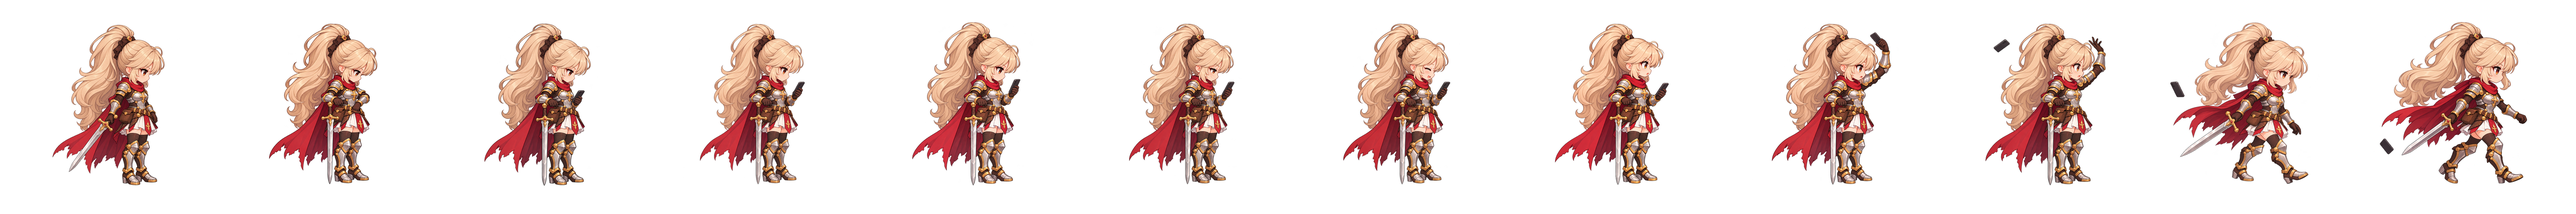
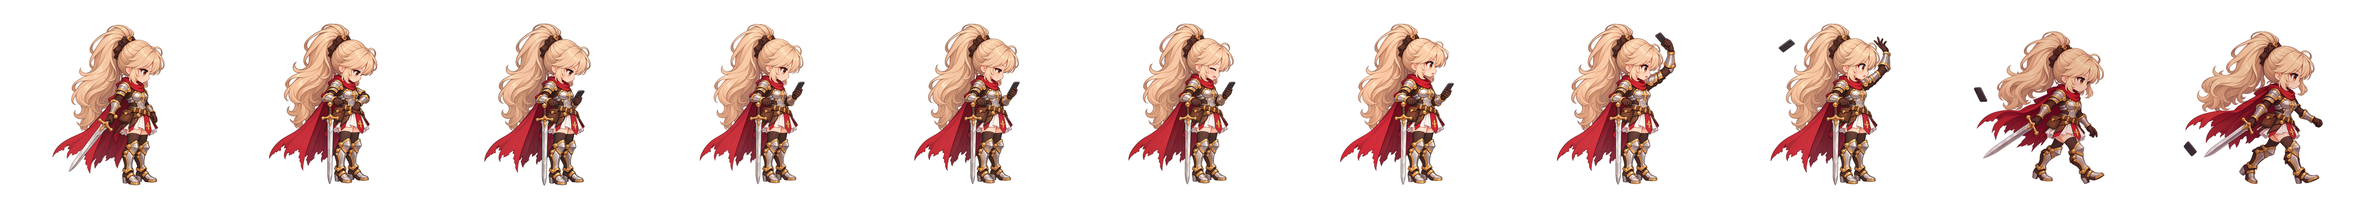
chore: animations

diff --git a/test/content/hero_phone_test.dart b/test/content/hero_phone_test.dart
@@ -29,25 +29,28 @@ void main() {
   final entry = resources.clip(HeroClips.phoneEnter);
   final wake = resources.clip(HeroClips.phoneWake);
 
-  test('phone boundaries reuse actual walk frames and their geometry', () {
-    final walk = resources.clip(const ClipId('hero.walk'));
-    expect(entry.frames.first.frameId, walk.frames.last.frameId);
-    expect(wake.frames.last.frameId, walk.frames.first.frameId);
-    expect(
-      identical(
-        resources.frame(entry.frames.first.frameId),
-        resources.frame(walk.frames.last.frameId),
-      ),
-      isTrue,
-    );
-    expect(
-      identical(
-        resources.frame(wake.frames.last.frameId),
-        resources.frame(walk.frames.first.frameId),
-      ),
-      isTrue,
-    );
-  });
+  test(
+    'phone entry reuses walk geometry and wake leaves walking its first frame',
+    () {
+      final walk = resources.clip(const ClipId('hero.walk'));
+      expect(entry.frames.first.frameId, walk.frames.last.frameId);
+      expect(
+        wake.frames.last.frameId,
+        const FrameId('hero.phoneFrames.frame.10'),
+      );
+      expect(
+        identical(
+          resources.frame(entry.frames.first.frameId),
+          resources.frame(walk.frames.last.frameId),
+        ),
+        isTrue,
+      );
+      expect(
+        wake.frames.map((frame) => frame.frameId),
+        isNot(contains(walk.frames.first.frameId)),
+      );
+    },
+  );
 
   test('root selects a complete subtree once and retains it during idle', () {
     final rolls = _Roll(.75);
@@ -110,17 +113,21 @@ void main() {
     expect(hero.advance(.5), 0);
     expect(rest.graphRunner, isNull);
     expect(hero.snapshot.frameId, const FrameId('hero.walk.frame.6'));
-    expect(hero.advance(.375), 0);
-    expect(hero.snapshot.frameId, const FrameId('hero.walk.frame.9'));
+    expect(hero.advance(.25), 0);
+    expect(hero.snapshot.frameId, const FrameId('hero.walk.frame.8'));
     hero.advance(.01);
     expect(rest.graphRunner!.snapshot.nodeId, HeroPhoneRestGraph.enter);
-    expect(hero.snapshot.frameId, const FrameId('hero.walk.frame.9'));
+    expect(hero.snapshot.frameId, const FrameId('hero.walk.frame.8'));
     hero.advance(entry.duration);
     rest.setIdleSeconds(0);
-    hero.advance(wake.duration);
+    hero.advance(wake.duration - .001);
+    expect(hero.snapshot.frameId, const FrameId('hero.phoneFrames.frame.10'));
+    hero.advance(.001);
     expect(hero.blocksAdventure, isFalse);
     expect(hero.snapshot.frameId, const FrameId('hero.walk.frame.0'));
     expect(hero.restReturnRevision, 1);
+    hero.advance(.125);
+    expect(hero.snapshot.frameId, const FrameId('hero.walk.frame.1'));
   });
 
   test('wake cues take sword while phone remains in its flight frames', () {
@@ -129,7 +136,7 @@ void main() {
     expect(release.time, lessThan(grab.time));
     expect(
       wake.frames[wake.frameIndex(grab.time)].frameId,
-      const FrameId('hero.phoneFrames.frame.10'),
+      const FrameId('hero.phoneFrames.frame.9'),
     );
   });
 

diff --git a/lib/content/animations/hero/clips/phone.dart b/lib/content/animations/hero/clips/phone.dart
@@ -6,7 +6,7 @@ void _addHeroPhone(_HeroClipBuilder builder) {
     spriteSheetResources(
       id: sheet,
       asset: '${_heroAssetRoot}phone.png',
-      frames: 12,
+      frames: 11,
       frameWidth: 512,
       frameHeight: 512,
       anchorX: .62,
@@ -22,7 +22,7 @@ void _addHeroPhone(_HeroClipBuilder builder) {
   builder.clips[HeroClips.phoneEnter] = AnimationClipDefinition(
     id: HeroClips.phoneEnter,
     frames: [
-      const ClipFrameDefinition(FrameId('hero.walk.frame.9'), .125),
+      const ClipFrameDefinition(FrameId('hero.walk.frame.8'), .125),
       frame(0, .16),
       frame(1, .20),
       frame(2, .18),
@@ -31,22 +31,22 @@ void _addHeroPhone(_HeroClipBuilder builder) {
     entryPose: const AnimationPoseContract.pose(HeroPoses.walkLast),
     exitPose: phone,
   );
-  // Thumb swipes occupy most of the cycle; laughter is a short occasional beat.
+  // Neutral phone holds occupy most of the cycle; laughter is a short beat.
   builder.clips[HeroClips.phoneScroll] = AnimationClipDefinition(
     id: HeroClips.phoneScroll,
     frames: [
       frame(3, 1.2),
-      frame(4, .16),
+      frame(3, .16),
       frame(3, 1.4),
-      frame(4, .16),
+      frame(3, .16),
       frame(3, 1.6),
-      frame(4, .16),
+      frame(3, .16),
       frame(3, 1.0),
-      frame(5, .20),
-      frame(6, .26),
-      frame(5, .18),
-      frame(6, .22),
-      frame(5, .16),
+      frame(4, .20),
+      frame(5, .26),
+      frame(4, .18),
+      frame(5, .22),
+      frame(4, .16),
       frame(3, .4),
     ],
     loopRange: const AnimationLoopRange(0, 13),
@@ -57,18 +57,18 @@ void _addHeroPhone(_HeroClipBuilder builder) {
   builder.clips[HeroClips.phoneWake] = AnimationClipDefinition(
     id: HeroClips.phoneWake,
     frames: [
-      frame(7, .10),
+      frame(6, .30),
+      frame(7, .09),
       frame(8, .09),
-      frame(9, .09),
-      frame(10, .10),
-      frame(11, .12),
-      const ClipFrameDefinition(FrameId('hero.walk.frame.0'), .125),
+      frame(9, .10),
+      frame(10, .12),
     ],
     entryPose: phoneFamily,
-    exitPose: const AnimationPoseContract.pose(HeroPoses.walkFirst),
+    // Walking owns its first-frame hold after the final phone stride.
+    exitPose: const AnimationPoseContract.family(PoseFamilyId.walkingRight),
     markers: const [
-      AnimationMarker(id: 'phoneReleased', time: .19),
-      AnimationMarker(id: 'swordGrabbed', time: .28),
+      AnimationMarker(id: 'phoneReleased', time: .39),
+      AnimationMarker(id: 'swordGrabbed', time: .48),
     ],
   );
 }

diff --git a/lib/content/animations/hero/clips/attack.dart b/lib/content/animations/hero/clips/attack.dart
@@ -1,18 +1,29 @@
 part of '../clips.dart';
 
 void _addHeroAttack(_HeroClipBuilder builder) {
+  const id = ClipId('hero.attack');
+  const step = GameBalance.heroAttackDuration / 6;
   builder.add(
     spriteSheetResources(
-      id: ClipId('hero.attack'),
+      id: id,
       asset: '${_heroAssetRoot}attack.png',
-      frames: 4,
+      frames: 5,
       frameWidth: 512,
       frameHeight: 512,
-      stepTime: GameBalance.attackDuration / 4,
-      anchorX: .58,
+      stepTime: step,
+      anchorX: .62,
       anchorY: .875,
-      scale: .25,
+      scale: .20,
       damageEventTime: GameBalance.damageTiming,
     ),
+  );
+  final clip = builder.clips[id]!;
+  builder.clips[id] = AnimationClipDefinition(
+    id: id,
+    frames: [
+      for (var i = 0; i < clip.frames.length; i++)
+        ClipFrameDefinition(clip.frames[i].frameId, i == 1 ? step * 2 : step),
+    ],
+    markers: clip.markers,
   );
 }

diff --git a/tool/sprite_assets/export_animation_previews.dart b/tool/sprite_assets/export_animation_previews.dart
@@ -74,11 +74,9 @@ void main() {
   final sit = [
     for (var i = 0; i < 4; i++) step('sitDown', i, i == 3 ? .8 : .3),
   ];
-  // Longer combat/death holds make individual poses easier to review.
+  // Attack uses runtime timing; death retains longer review holds.
   preview('walk_v2', 'walk', walk);
-  preview('attack_v1', 'attack', [
-    for (var i = 0; i < 4; i++) step('attack', i, [.4, .15, .1, .15][i]),
-  ]);
+  preview('attack_v1', 'attack', clip('attack'));
   preview('death_v1', 'death', [
     for (var i = 0; i < 4; i++) step('death', i, i == 3 ? 1 : .4),
   ]);

diff --git a/test/game/combat_regression_test.dart b/test/game/combat_regression_test.dart
@@ -26,6 +26,12 @@ void main() {
         enemyPlayback: AttackPlayback(ProceduralEnemyTimelines.attack),
       );
       final attack = catalog.clip(const ClipId('hero.attack'));
+      expect(attack.duration, closeTo(.66, .000001));
+      expect(
+        attack.frames[1].duration,
+        closeTo(attack.frames[0].duration * 2, .000001),
+      );
+      expect(attack.markers.single.time, .35);
       final stats = fighter(speed);
       final hitTime =
           attack.markers.single.time * min(1, 1 / speed / attack.duration);

diff --git a/lib/core/balance/game_balance.dart b/lib/core/balance/game_balance.dart
@@ -17,6 +17,7 @@ class GameBalance {
   static const respawnDuration =
       heroDeathLastFrameDuration - heroDeathFrameTime;
   static const attackDuration = .6;
+  static const heroAttackDuration = attackDuration + .06;
   static const damageTiming = .35;
   static const hitDuration = .18;
   static const idleThresholds = [30.0, 120.0, 300.0];

diff --git a/lib/content/animations/hero/poses.dart b/lib/content/animations/hero/poses.dart
@@ -16,7 +16,7 @@ abstract final class HeroPoses {
     ),
     SpritePoseDefinition(
       id: walkLast,
-      frameId: FrameId('hero.walk.frame.9'),
+      frameId: FrameId('hero.walk.frame.8'),
       family: PoseFamilyId.walkingRight,
     ),
     SpritePoseDefinition(

diff --git a/lib/content/animations/hero/clips/walk.dart b/lib/content/animations/hero/clips/walk.dart
@@ -5,7 +5,7 @@ void _addHeroWalk(_HeroClipBuilder builder) {
     spriteSheetResources(
       id: ClipId('hero.walk'),
       asset: '${_heroAssetRoot}walk.png',
-      frames: 10,
+      frames: 9,
       frameWidth: 512,
       frameHeight: 512,
       stepTime: .125,

diff --git a/lib/content/animations/hero/clips/idle.dart b/lib/content/animations/hero/clips/idle.dart
@@ -8,9 +8,9 @@ void _addHeroIdle(_HeroClipBuilder builder) {
       frameWidth: 512,
       frameHeight: 512,
       loop: true,
-      anchorX: .58,
+      anchorX: .62,
       anchorY: .875,
-      scale: .25,
+      scale: .20,
     ),
   );
 }

diff --git a/tool/sprite_assets/pipeline.py b/tool/sprite_assets/pipeline.py
@@ -12,7 +12,7 @@ import tempfile
 
 ROOT = Path(__file__).resolve().parents[2]
 MANIFESTS = [f'tool/sprite_assets/manifests/hero/{name}.json' for name in (
-    'seated_v1', 'sit_down_v1', 'sharpen_v1', 'walk_v2', 'attack_v1',
+    'seated_v1', 'sit_down_v1', 'sharpen_v1', 'walk_v2', 'ready_v1', 'attack_v1',
     'death_v1', 'stand_up_v1', 'read_v1', 'phone_v1',
 )]
 
@@ -90,9 +90,14 @@ def load_manifest(path, root=ROOT):
                 raise ValueError('Invalid source canvas')
             frame['sourceCanvas'] = canvas
             frame['scale'] = entry.get('scale', size / canvas if canvas else data.get('scale', 1))
+            frame['widthScale'] = entry.get('widthScale', 1)
             frame['offset'] = entry.get('offset', [0, 0])
             if not math.isfinite(frame['scale']) or frame['scale'] <= 0:
                 raise ValueError('Invalid source scale')
+            if not math.isfinite(frame['widthScale']) or frame['widthScale'] <= 0:
+                raise ValueError('Invalid horizontal calibration')
+            if canvas and frame['widthScale'] != 1:
+                raise ValueError('Horizontal calibration requires a direct frame transform')
             if len(frame['offset']) != 2 or any(type(v) is not int for v in frame['offset']):
                 raise ValueError('Invalid whole-frame translation')
             frame_filter(data, frame)
@@ -117,7 +122,7 @@ def frame_filter(data, frame):
         if min(left, top) < 0 or left+w > canvas or top+h > canvas:
             raise ValueError('Translation exceeds common source canvas')
         return crop + f'pad={canvas}:{canvas}:{left}:{top}:color=black@0,scale={size}:{size}:flags=lanczos,format=rgba'
-    sw, sh = round(w*factor), round(h*factor)
+    sw, sh = round(w*factor*frame.get('widthScale', 1)), round(h*factor)
     if min(left, top) >= 0:
         if min(sw, sh) <= 0 or left+sw > size or top+sh > size:
             raise ValueError('Translation exceeds output canvas')

diff --git a/docs/hero_phone.md b/docs/hero_phone.md
@@ -9,22 +9,25 @@
 
 - Основна поза: `art/hero/phone_v1/scroll_neutral.png`.
 - Зовнішність і теплий шампанський колір волосся: `art/hero/reference/`.
-- Кожен із 12 нових кадрів згенерований окремим прозорим PNG.
+- Атлас містить 11 кадрів, кожен згенерований окремим прозорим PNG.
+  `scroll_swipe.png` виключений через різницю масштабу та яскравості.
+  Копія попереднього атласу: `art/hero/phone_v1/phone-before-frame-4-removal.png`.
 - Рецепт пакування: `tool/sprite_assets/manifests/hero/phone_v1.json`.
 - Ігровий атлас: `assets/characters/hero/phone.png`; клітинки 512 × 512.
 - Розпаковані кадри й GIF: ігнорована папка `build/`.
 
 ## Послідовність
 
-`walk[9] → зупинка → опора на меч / рука біля пояса → діставання телефона
+`walk[8] → зупинка → опора на меч / рука біля пояса → діставання телефона
 → скролінг / короткий сміх → переляк → замах → кидок назад → підняття меча
 → крок → walk[0]`.
 
-Вхід і вихід використовують справжні ресурси кадрів ходіння з їхніми rig та
-геометрією, а не згенеровані копії. Перед запуском нового графа координатор
-закінчує поточний крок до `walk[9]`. Вихід закінчується точно `walk[0]`.
+Вхід використовує справжній ресурс кадру ходіння з його rig та геометрією.
+Перед запуском нового графа координатор закінчує поточний крок до `walk[8]`.
+Кидок закінчується на `phone[10]`, після чого координатор запускає ходьбу
+з `walk[0]`. Кліп кидка не повторює `walk[0]`, щоб не подвоювати його паузу.
 
-Цикл телефона переважно містить паузи та рух великого пальця; усмішка й сміх
+Цикл телефона переважно містить паузи в основній позі; усмішка й сміх
 із заплющеними очима займають коротку частину циклу. Повернення користувача
 негайно перериває цей цикл, включно зі сміхом. Повернення під час входу
 залишається відкладеним до завершення діставання телефона, після чого одразу

diff --git a/tool/sprite_assets/README.md b/tool/sprite_assets/README.md
@@ -26,13 +26,16 @@ A manifest is just a packing recipe. For example:
 - `source` resolves beside the manifest. Frame order is array order.
 - `crop` is `[x, y, width, height]`; omit it to use the whole image.
 - `scale` uniformly resizes the source cell; default is 1.
+- `widthScale` calibrates a direct frame's horizontal proportions after `scale`;
+  default is 1. Height and ground contact remain unchanged.
 - `offset` is `[x, y]` placement on the output canvas; default is `[0, 0]`.
 - `sourceCanvas` instead places cropped poses on a larger square before resizing
   to `size`. Attack/death use this to preserve their existing artwork.
 - A frame can use another `source`/`scale`, or `copy` an existing shared pose.
 - `output` resolves from the repository root. Individual frames are saved
   in the recipe's `framesDirectory` (hero intermediates use `build/sprite_frames/`). `copies` preserves requested copies;
-  `exportFrames` copies selected frames to standalone PNGs (attack's ready pose).
+  `exportFrames` copies selected frames to standalone PNGs. The idle ready pose
+  has its own `ready_v1.json` recipe and uses the walk rig's scale and anchor.
 - `previewGroup` selects the matching group exported by Dart; hero previews use
   `build/animation_previews/hero/`.
 - Without `frames`, the recipe produces a single PNG.
